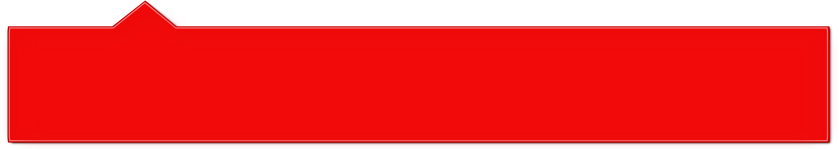
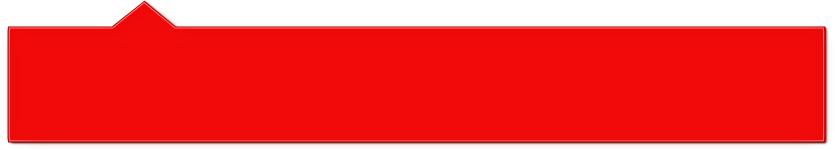
Fix error dialog placement and size.

Changed region(s): [[0.218, 0.16, 0.9964, 0.1867], [0.0, 0.16, 0.1557, 0.1867]]

diff --git a/fileshack/static/fileshack/css/fileshack.css b/fileshack/static/fileshack/css/fileshack.css
@@ -250,11 +250,11 @@ button::-moz-focus-inner {
 }
 
 .error,.info {
-    width: 780px;
+    width: 770px;
     height: 62px;
-    margin: 0 auto;
+    margin-left: -10px;
     background-repeat: no-repeat;
-    background-position: 7px center;
+    background-position: 4px center;
     position: relative;
     top: -20px;
     padding: 44px 35px 44px 35px;
@@ -290,10 +290,11 @@ button::-moz-focus-inner {
     width: 35px;
     height: 35px;
     padding: 0;
+    margin-right: -14px;
     border: none;
     box-shadow: none;
     -moz-box-shadow: none;
-    -wekkit-box-shadow: none;
+    -webkit-box-shadow: none;
     -o-box-shadow: none;
 }
 
